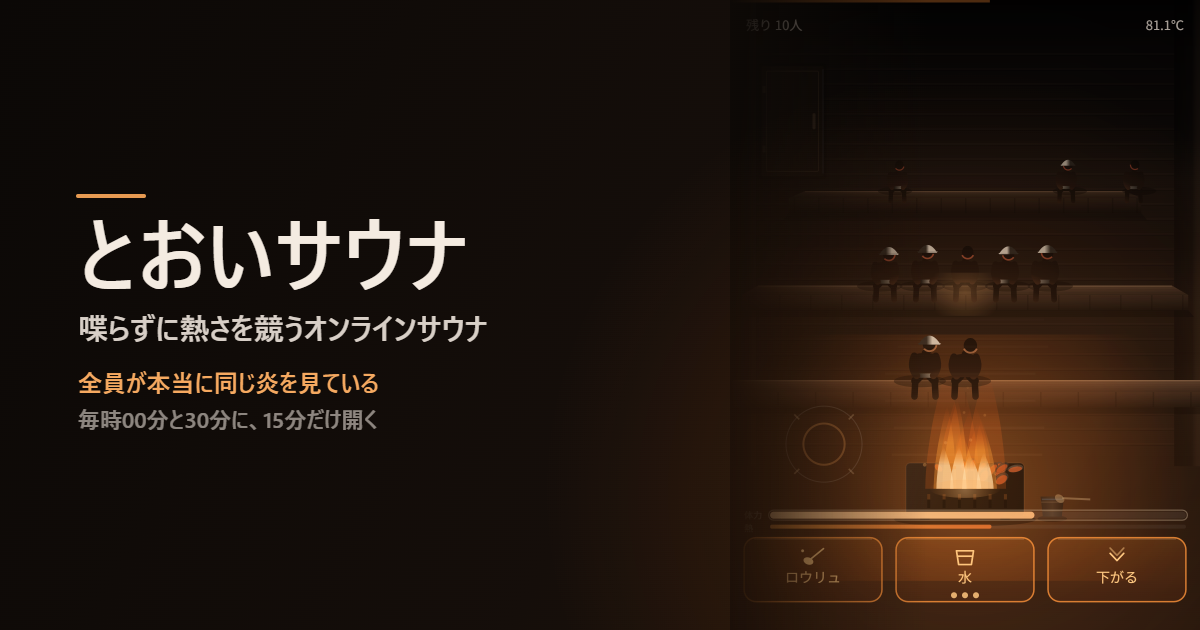
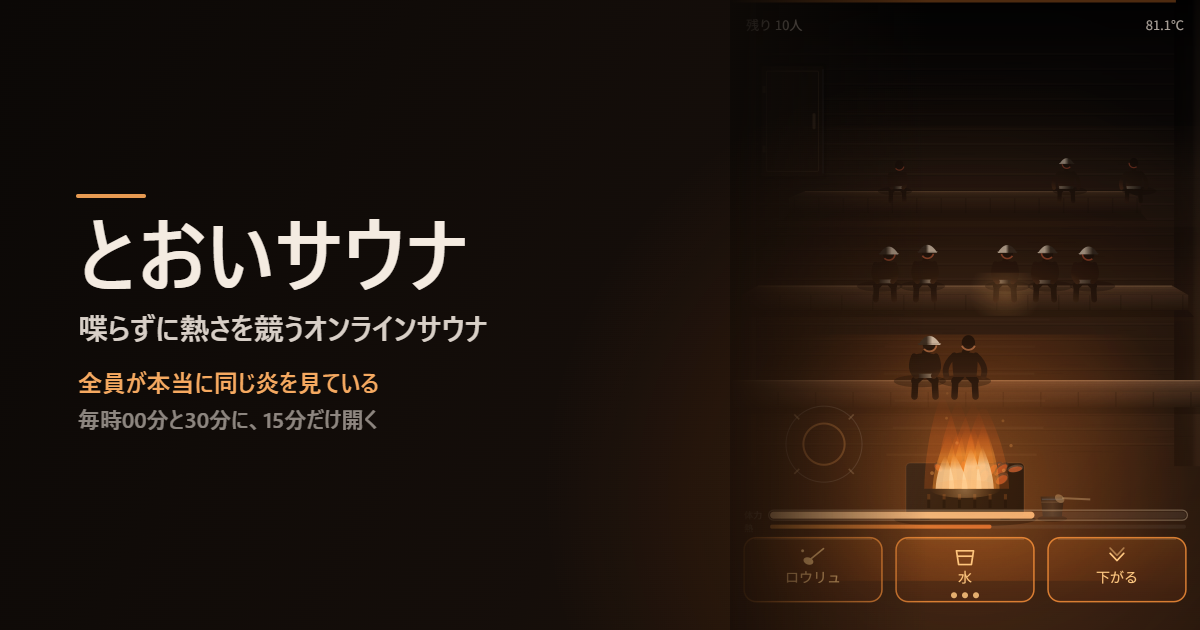
炎に部屋を同期させ、粒子と奥行きを足す
- 部屋全体の明るさが炎のゆらぎに同期する。人の照り、板の光、段の稜線が
  同じ揺れで動く＝火が本当の光源に見える。決定的なので全端末で同じ揺れ方
- フィルムの粒子を敷く（128pxのタイルを1枚だけ作って敷き詰める）。
  平坦なベクター感が消える
- 段ごとに空気の膜をかぶせる。奥の段が遠くに見える
- 壁の板ごとに木目を散らす。板の照りも1枚ずつ変える
- 姿勢を2種類に分ける。背をあずけて後ろに手をつく人が混じる
  （同じ人形が並ぶと嘘っぽくなる）

満室21人で60fpsを維持。OGPカードも作り直した。

diff --git a/index.html b/index.html
@@ -506,6 +506,40 @@ addEventListener("resize", resize);
 
 const COL = { bg:"#0d0906", wood:"#241812", wood2:"#2c1d15", body:"#120e0b", text:"#e8dcd0", fire:"#ff7a1a", core:"#ffd08a" };
 
+// 炎のゆらぎ。部屋全体の明るさがこれに同期する＝火が本当の光源に見える
+// 決定的なので、全端末で同じ瞬間に同じだけ揺れる
+let Flick = 1;
+const flickerOf = t => {
+  const F = frameOf(t);
+  return 0.88 + 0.12 * (0.62 * noise(F / 6) + 0.38 * noise(F / 14));
+};
+
+// フィルムの粒子。平坦なベクター感を消す。タイルを1枚だけ作って敷き詰める
+let grainTile = null;
+function drawGrain(t){
+  if (!grainTile){
+    const n = 128;
+    grainTile = document.createElement("canvas");
+    grainTile.width = grainTile.height = n;
+    const gg = grainTile.getContext("2d");
+    const img = gg.createImageData(n, n);
+    for (let i = 0; i < n * n; i++){
+      const v = 118 + Math.floor(unit("gr" + i) * 74);
+      img.data[i * 4] = img.data[i * 4 + 1] = img.data[i * 4 + 2] = v;
+      img.data[i * 4 + 3] = 255;
+    }
+    gg.putImageData(img, 0, 0);
+  }
+  const step = Math.floor(frameOf(t) / 4);
+  const ox = -(step * 37) % 128, oy = -(step * 61) % 128;
+  g.save();
+  g.globalAlpha = 0.045;
+  g.globalCompositeOperation = "overlay";
+  for (let x = ox; x < W; x += 128)
+    for (let y = oy; y < H; y += 128) g.drawImage(grainTile, x, y);
+  g.restore();
+}
+
 function rr(x, y, w, h, r){
   g.beginPath();
   r = Math.min(r, w / 2, h / 2);
@@ -525,11 +559,20 @@ function drawRoom(doorGlow){
   cg.addColorStop(0, "rgba(0,0,0,0.55)"); cg.addColorStop(1, "rgba(0,0,0,0)");
   g.fillStyle = cg; g.fillRect(0, 0, W, ceil * 1.6);
 
-  // 壁は横張り。板の上端に光、下端に影を置くと厚みが出る
+  // 壁は横張り。板の上端に光、下端に影を置くと厚みが出る。板ごとに木目を散らす
   const post = W * 0.055;
+  let bi = 0;
   for (let y = ceil; y < H * 0.72; y += 15){
-    g.fillStyle = "rgba(255,196,140,0.045)"; g.fillRect(post, y, W - post * 2, 1);
-    g.fillStyle = "rgba(0,0,0,0.20)";        g.fillRect(post, y + 1, W - post * 2, 1.5);
+    const shine = (0.030 + unit("bd" + bi) * 0.030) * Flick;
+    g.fillStyle = "rgba(255,196,140," + shine.toFixed(3) + ")"; g.fillRect(post, y, W - post * 2, 1);
+    g.fillStyle = "rgba(0,0,0,0.20)"; g.fillRect(post, y + 1, W - post * 2, 1.5);
+    for (let k = 0; k < 3; k++){                                  // 木目
+      const gx = post + (W - post * 2) * unit("gx" + bi + "_" + k);
+      const gw2 = 18 + unit("gw" + bi + "_" + k) * 52;
+      g.fillStyle = "rgba(0,0,0,0.11)";
+      g.fillRect(gx, y + 4 + unit("gy" + bi + "_" + k) * 7, gw2, 1);
+    }
+    bi++;
   }
   // 角の柱。部屋の箱が締まる
   for (const px of [0, W - post]){
@@ -603,7 +646,7 @@ function drawRoom(doorGlow){
       const t2 = (gy - y) / top, hx = hb + (hf - hb) * t2;
       g.fillStyle = "rgba(0,0,0,0.10)"; g.fillRect(cx - hx, gy, hx * 2, 0.8);
     }
-    g.fillStyle = "rgba(255,214,164," + (0.10 + depth * 0.09).toFixed(3) + ")"; // 角の光
+    g.fillStyle = "rgba(255,214,164," + ((0.10 + depth * 0.09) * Flick).toFixed(3) + ")"; // 角の光
     g.fillRect(cx - hb, y, hb * 2, 1.2);
   }
 }
@@ -779,8 +822,11 @@ function drawPerson(x, y, s, id, alpha, isMe, heat, slump, stam, jolt){
   const j = clamp(jolt === undefined ? 0 : jolt, 0, 1);
   // 熱いと前に屈み、体力が尽きてくるとさらに沈む＝数字を見なくても限界が分かる
   // jolt はロウリュを食らった瞬間のすくみ。上段の人ほど大きく縮む＝当たったのが見える
+  // 姿勢は人ごとに違える。同じ人形が並ぶと一気に嘘っぽくなる
+  const pose = unit("ps" + id);                        // 0.62超＝背をあずけて座る人
+  const leanBack = pose > 0.62;
   const hunch = hot * 0.20 + spent * 0.26 + j * 0.34 + (slump ? 0.52 : 0)
-              + unit("po" + id) * 0.10;              // 姿勢は人ごとに少し違う
+              + unit("po" + id) * 0.10 - (leanBack ? 0.16 : 0);
   const hipY  = y - U * 0.015 + br * U * 0.004;
   const torso = U * (0.44 - hunch * 0.13);
   const shldY = hipY - torso;
@@ -799,7 +845,7 @@ function drawPerson(x, y, s, id, alpha, isMe, heat, slump, stam, jolt){
   const dist = Math.hypot(dxl, dyl) || 1;
   const ux = dxl / dist, uy = dyl / dist;
   const fall = clamp(1 - (dist / (Math.max(W, H) * 0.62)), 0.34, 1);   // 遠いほど暗い（沈み切らせない）
-  const lit = 0.50 + 0.40 * fall + hot * 0.12;
+  const lit = (0.50 + 0.40 * fall + hot * 0.12) * Flick;               // 炎のゆらぎに同期
 
   // 火だけの部屋では人は影絵になる。中は暗く保ち、火に向いた縁だけを立てる
   const shade = (a, b) => {
@@ -873,15 +919,19 @@ function drawPerson(x, y, s, id, alpha, isMe, heat, slump, stam, jolt){
   g.lineTo(px - hipW * 0.50, hipY + U * 0.015);
   g.closePath(); g.fill();
 
-  // 腕。肩から膝へ
+  // 腕。膝に置く人と、後ろに手をついて背をあずける人がいる
   g.fillStyle = body;
   g.lineJoin = "round"; g.lineCap = "round";
-  g.strokeStyle = body; g.lineWidth = U * 0.115;
+  g.strokeStyle = body; g.lineWidth = U * 0.095;
   for (const sgn of [-1, 1]){
     g.beginPath();
     g.moveTo(px + sgn * shldW * 0.42, shldY + hr * 0.46);
-    g.quadraticCurveTo(px + sgn * shldW * 0.60, shldY + torso * 0.62,
-                       px + sgn * hipW * 0.40, hipY - U * 0.02);
+    if (leanBack)
+      g.quadraticCurveTo(px + sgn * shldW * 0.86, shldY + torso * 0.55,
+                         px + sgn * hipW * 0.88, hipY - U * 0.01);
+    else
+      g.quadraticCurveTo(px + sgn * shldW * 0.62, shldY + torso * 0.66,
+                         px + sgn * hipW * 0.42, hipY - U * 0.02);
     g.stroke();
   }
 
@@ -1333,6 +1383,7 @@ const App = {
 
     const temp = temperature(alive.length, now, this.events);
     const hell = clamp((temp - 90) / 14, 0, 1);
+    Flick = flickerOf(now);                                    // 炎のゆらぎ。部屋全体がこれに従う
 
     // 予兆の進行。誰かが打った直後だけ 0→1 になる
     const sinceP = now - this.pressedAt;
@@ -1351,13 +1402,25 @@ const App = {
     }
     // ロウリュが降りた直後のすくみ。段ごとに大きさが違う＝誰に当たったかが見える
     const recoil = clamp(1 - (now - this.roomLoyly) / 480, 0, 1);
-    const order = alive.slice().sort((a, b) => (Seats.map[a.id] ?? 0) - (Seats.map[b.id] ?? 0));
-    for (const p of order){
-      const s = Seats.list[Seats.map[p.id]]; if (!s) continue;
-      const mine = p.id === me;
-      const lk = mine ? {heat: Me.dHeat, stam: Me.dStam} : lookOf(p.id, p.heat, p.stam, dt);
-      drawPerson(s.x, s.y, s.s, p.id, 1, mine, lk.heat, false, lk.stam,
-                 recoil * (loylyBite(s.tier, Seats.tiers) / 1.8));
+    // 奥の段から描き、段ごとに空気の膜をかぶせる＝距離が出る
+    for (let r = 0; r < Seats.tiers; r++){
+      for (const p of alive){
+        const s = Seats.list[Seats.map[p.id]];
+        if (!s || s.tier !== r) continue;
+        const mine = p.id === me;
+        const lk = mine ? {heat: Me.dHeat, stam: Me.dStam} : lookOf(p.id, p.heat, p.stam, dt);
+        drawPerson(s.x, s.y, s.s, p.id, 1, mine, lk.heat, false, lk.stam,
+                   recoil * (loylyBite(s.tier, Seats.tiers) / 1.8));
+      }
+      const remain = Seats.tiers <= 1 ? 0 : 1 - r / (Seats.tiers - 1);
+      if (remain > 0.01){
+        const yTop = Seats.tierY[r] - H * 0.10, yBot = Seats.tierY[r] + H * 0.06;
+        const veil = g.createLinearGradient(0, yTop, 0, yBot);
+        const a = (0.10 * remain).toFixed(3);
+        veil.addColorStop(0, "rgba(46,28,18," + a + ")");
+        veil.addColorStop(1, "rgba(46,28,18," + (0.16 * remain).toFixed(3) + ")");
+        g.fillStyle = veil; g.fillRect(0, yTop, W, yBot - yTop);
+      }
     }
     // 出された人は床に座り込んで見ている（部屋から消えない＝人が減らない）
     const outs = inRound.filter(p => p.out);
@@ -1381,6 +1444,7 @@ const App = {
     const canMove = rs.running && (moveDown ? Seats.freeIn(cur + 1, inRound) : true);
     drawHaze(now, hell);                                       // 熱気と陽炎
     drawVignette(hell);                                        // 人と炎の上に重ねて中央へ寄せる
+    drawGrain(now);                                            // フィルムの粒子
     if (rs.running && !Me.out)
       drawBreath(now, H * 0.705, this.disturb(now),
                  Me.played === 0 && rs.left > ROUND_MS - 12000);
